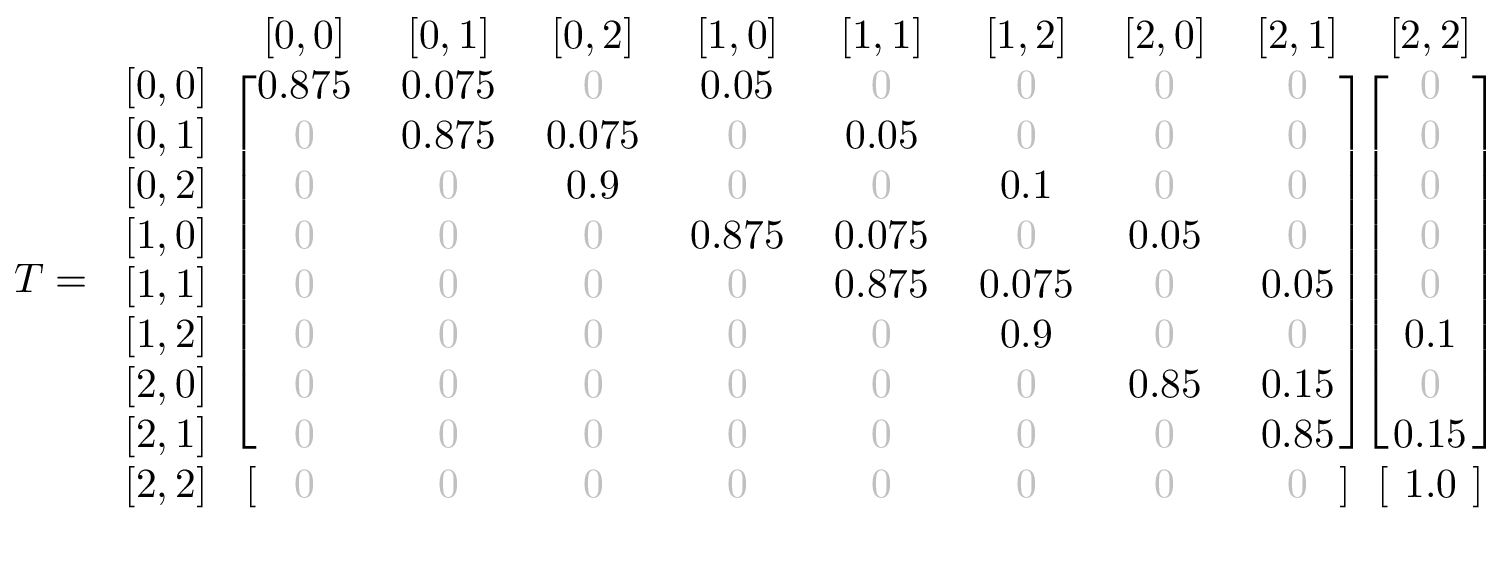
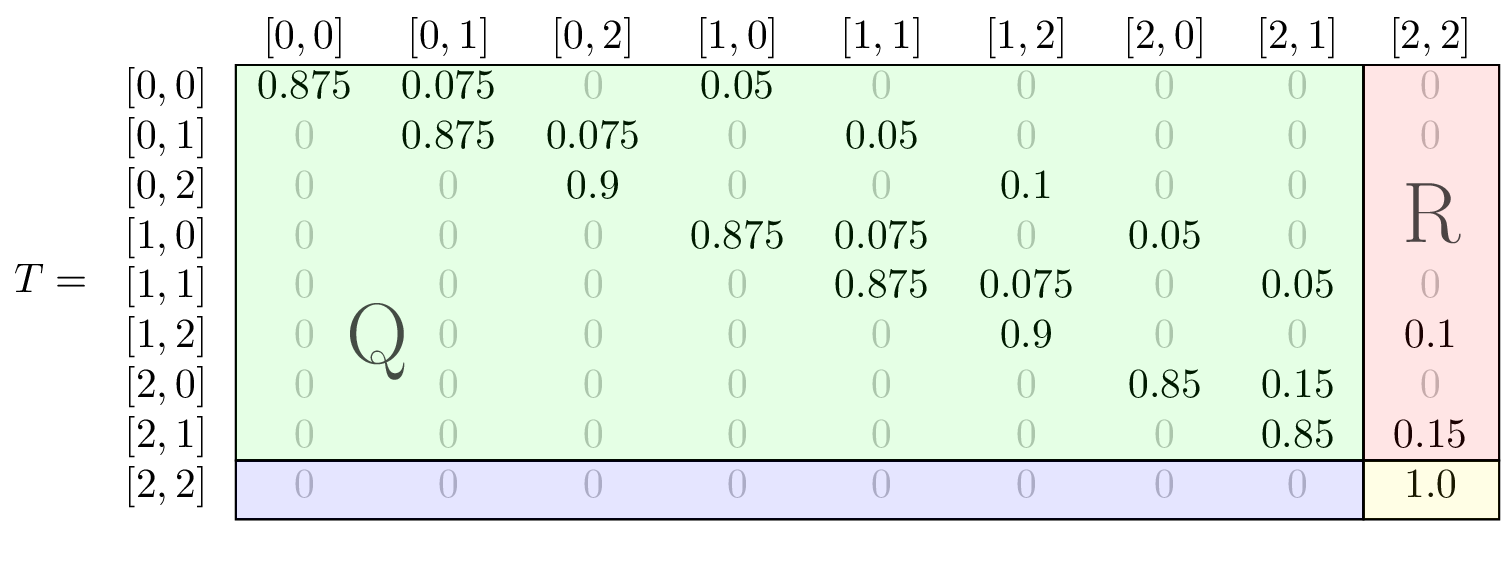
final updates to commuter article

diff --git a/_drafts/2017-05-19-speeding_commuters.md b/_drafts/2017-05-19-speeding_commuters.md
@@ -1,167 +1,170 @@
 ---
 layout:     post
-title:      "Tickets"
+title:      "Speeding Commuters"
 date:       2017-05-19 10:00:00
 author:     Andrew
 header-img: img/posts/speeding_commuters/traffic_bg.jpg
-header-credit: https://unsplash.com/@glebson
+header-credit: unsplash.com/@drh02
 tags:       programming riddler probability
 ---
 
-This week's [riddler](http://fivethirtyeight.com/features/the-battle-for-riddler-nation-round-2/) was a solid one, not too difficult, but still a challenge!
+This week's [riddler express](http://fivethirtyeight.com/features/the-battle-for-riddler-nation-round-2/) was a great level of difficulty, and I thought it was worthy of a write-up.  Hope you enjoy!
 
 > From Jerry Meyers, a careening commute problem:  
 > &nbsp;  
-> Our co-workers carpool to work each day. A driver is selected randomly for the drive to work and again randomly for the drive home. Each of the drivers has a lead foot, and each has a chance of being ticketed for speeding. Driver A has a 10 percent chance of getting a ticket each time he drives, Driver B a 15 percent chance, Driver C a 20 percent chance, and Driver D a 25 percent chance. The state will immediately revoke the license of a driver after his or her third ticket, and a driver will stop driving in the carpool once his license is revoked. Since there is only one police officer on the carpool rout, a maximum of one ticket will be issued per morning and a max of one per evening.    
+> Our co-workers carpool to work each day. A driver is selected randomly for the drive to work and again randomly for the drive home. Each of the drivers has a lead foot, and each has a chance of being ticketed for speeding. Driver A has a 10 percent chance of getting a ticket each time he drives, Driver B a 15 percent chance, Driver C a 20 percent chance, and Driver D a 25 percent chance. The state will immediately revoke the license of a driver after his or her third ticket, and a driver will stop driving in the carpool once his license is revoked. Since there is only one police officer on the carpool route, a maximum of one ticket will be issued per morning and a max of one per evening.    
 > &nbsp;  
 > Assuming that all four drivers start with no tickets, how many days can we expect the carpool to last until all the drivers have lost their licenses?
 
-# Observations
+# What do we know?
 First, let's make some observations about the problem.  At the beginning of each trip, each driver will have some amount of tickets.  I'm going to refer to these amounts as a **state**.  For example, if Drivers A & B each had 1 ticket, I'll write that state as `[1, 1, 0, 0]`. The intial state is `[0, 0, 0, 0]`.
 
 #### 1. There are a limited number of states
 Each driver starts with 0 tickets and stops receiving them after their 3rd.  Because there is a cap on the amount of tickets, and a fixed number of drivers, there is a finite number of ways that tickets can be distributed amongst our drivers.
 
-The actual number of states is the number of ways that 0, 1, 2, or 3 can be arranged, including repeats, across the 4 drivers.  With 4 possible ticket amounts over 4 drivers, this will result in $$4^4$$ or 256 unique states.
+The actual number of states is the number of ways that 0, 1, 2, or 3 can be arranged, with repetition, across the 4 drivers.  With 4 possible ticket amounts over 4 drivers, this will result in $$4^4$$ or 256 unique states.
 
-#### 2. The probability for a ticket to be issued depends only on the state at that time.
-If Driver A and Driver B each have 1 ticket, the probability that Driver C will receive a ticket is the same no matter the order that A and B received their tickets.  The only factors that influence each driver's probability of receiving a ticket are:
-* the number of drivers remaining (more drivers means it's less likely that any particular driver will be selected)
+#### 2. The probability for a driver to be ticketed depends only on the state at that time
+If Driver A and Driver B each have 1 ticket, the probability that Driver C will receive a ticket is the same no matter which order A and B received their tickets.  The only factors that influence each driver's probability of receiving a ticket are:
+* the number of eligible drivers (more drivers means it's less likely that any particular driver will need to drive)
 * their individual ticket probability
 
 
-#### 3. The state where all drivers have received the maximum number of tickets can be reached from any other state
+#### 3. The end state can be reached from any other state
 The end state is the one where all drivers have received their maximum number of tickets, `[3, 3, 3, 3]`.
 
-If I selected a distribution of tickets at random, e.g. `[0, 1, 2, 0]`, it's possible to reach the end state by issuing tickets.  No matter which state we pick, we can always make our way to the end state.  This is probably the most abstract of all of these observations, but it's important to the solution, so stick around!
+If I selected any possible distribution of tickets, it's possible to reach the end state by issuing more tickets.  No matter which state we pick, we can always make our way to the end state in a finite number of steps.  This is probably the most abstract of all of these observations, but it's important to the solution, so stick around!
 
-#### In summary:
-1. the number of states (ticket distributions) is finite.
-2. the probability for a ticket to be issued depends only on the state at that time.
-3. there is an end state that can be reached from any other state.
+# Why do those matter?
 
-# Markov Chains
+These observations are important because they provide some restrictions on how our scenario works.  These restrictions mean that a [Markov chain](https://en.wikipedia.org/wiki/Markov_chain) might be a good method to solve this problem.  A *Markov process* is a process with some randomness that doesn't depend on previous state, i.e. it is "memoryless".  A *Markov chain* is a way to represent one of these processes, given it has a finite number of states.
 
-These observations lead me to think that describing this scenario as a [Markov chains](https://en.wikipedia.org/wiki/Markov_chain) might be a good method to solve this problem.  A *Markov process* is a process with some randomness that doesn't depend on previous state, i.e. it is "memoryless".  A *Markov chain* is a way to represent one of these processes, given it has a finite number of states.
+A common example of a Markov chain is the board game [Snakes & Ladders](https://en.wikipedia.org/wiki/Snakes_and_Ladders#Gameplay) because:  
+1. rolling dice to move around the board has randomness
+2. there are a limited number of spaces on the board
+3. the probability to move to a new space don't depend on how you arrived at your current space.
 
-As an example, let's pretend tomorrow's weather depends only on today's weather, and there are only two types of weather, **rainy** or **sunny**.  The weather follows these rules:
+In general, Markov chains are good at modeling board games involving dice.  Analyses exist for at least Risk[^risk], Monopoly[^monopoly], and Snakes & Ladders[^snl][^snl2].
+
+In our riddle, observation **2** provides the "memoryless" criteria and observation **1** shows that there is a finite number of states.  It's looking good that we could use Markov chains to solve our riddle.
+
+#### example Markov chain
+Let's pretend tomorrow's weather depends *only* on today's weather, and there are only two types of weather: **rainy** or **sunny**[^weather].  The weather follows these patterns:
 * If it's sunny today, tommorow's weather is: 
-  * 90% likely sunny.
-  * 10% likely rainy.
+  * 90% likely to remain sunny.
+  * 10% likely to turn rainy.
 * If it's rainy today, tommorow's weather is: 
-  * 50% likely sunny.
-  * 50% likely rainy.
+  * 50% likely to turn sunny.
+  * 50% likely to remain rainy.
 
-This can be visualized like this:
-![weather_markov]({{ site.baseurl }}/img/posts/speeding_commuters/Markov_Chain_weather_model_matrix_as_a_graph.png)
+The Markov chain for this scenario looks like this:
+![weather_markov]({{ site.baseurl }}/img/posts/speeding_commuters/weather_chain.png)
 
-and it can also be written as a [transition matrix](https://en.wikipedia.org/wiki/Stochastic_matrix).  In this matrix, each number represents the probability that, if the chain is currently in the state of the row, it will transition to the state in the column.  The weather model as a transition matrix is:
+Markov chains can also be written as [transition matrices](https://en.wikipedia.org/wiki/Stochastic_matrix).  In a transition matrix, each number represents the probability that the process would transition from that row's state to that column's state.  The weather model as a transition matrix is:
+
+![weather_markov_mat]({{ site.baseurl }}/img/posts/speeding_commuters/prob_matrix_weather.png)
+
+I've highlighted one transition in the chain and its corresponding entry in the matrix as well to illustrate how the transition matrix is set up.
+
+# Start Your Engines
+
+You might be wondering how we're going to relate this foray into Markov chains back to our riddle.
+
+We can use Markov chains to our advantage by modeling our scenario as follows.  Take each possible state of ticket distribution, and make that a state in our Markov chain.  Each transition in the chain would represent a trip.  This means that by calculating the probabilities that tickets will be issued, we could make a transition matrix that represents the drivers taking trips until they're all suspended.
+
+## Feeling lucky?
+
+Now we need to start calculating probabilities.  In particular, we're interested in the probability that a driver gets a ticket, given an initial state.
+
+We know that for each trip, there are $$x$$ available drivers, where $$x$$ is the number of drivers that do not have 3 tickets.  This means each eligible driver has a $$\frac{1}{x}$$ chance of being selected to drive that trip.  Additionally, we know that each driver has a probability $$p$$ that they will receive a ticket *if they drive*.  This means that for each trip, *before the driver is selected*, the probability that an individual driver will be ticketed is $$\frac{1}{x} \times p$$. For example, assume the state is `[1, 1, 2, 0]`.  All 4 drivers are available, so $$x$$=4.  Driver C's $$p$$ is 0.20.  This makes Driver C's probability of receiving a ticket $$\frac{0.20}{4} = 0.05$$.
+
+If the state was `[3, 1, 2, 0]` instead, Driver C would be more likely to receive a ticket because it's more likely they will be selected at random to drive!  Their ticket probability is now $$\frac{0.20}{3} = 0.067$$.
+
+Transitions are only possible between two states where exactly 1 ticket has been issued to exactly 1 driver, or no tickets have been issued.  The probability that no ticket will been issued can be found by summing all the probabilities that each individual driver will be ticketed and subtracting that from 1.
+
+## Give an example already!
+
+To make things easier to visualize, let's modify the problem slightly.  Instead of our original problem parameters, assume:
+* Only Drivers A and B are present (same probabilities)
+* licenses are suspended after **2** tickets instead of 3.
+
+Given these constraints, the possible states of ticket distribution amongst our two drivers are:
 
 $$
-T =
-\begin{matrix}
- &
- \begin{matrix}
- S & R \\
- \end{matrix}
- \\
- \begin{matrix}
- S \\ R
- \end{matrix}
- &
-  \begin{bmatrix}
- 0.9 & \textbf{0.1} \\
- 0.5 & 0.5 \\
- \end{bmatrix}
-\end{matrix}
-$$
+\begin{array}{ccccccccc}
+intial &  &  &  &  &  &  &  & end \\
+[0, 0] & [0, 1] & [0, 2] & [1, 0] & [1, 1] & [1, 2] & [2, 0] & [2, 1] & [2,2] \\
+\end{array}
+$$ 
 
-The bolded entry in the matrix is highlighting that the probability to transition from **sunny** to **rainy** is 0.1.
+By using our formula from above, we can calculate each possible transition and draw out our Markov chain.
+![ex_chain]({{ site.baseurl }}/img/posts/speeding_commuters/example_chain.png)
 
-## This relates how?
-You might be wondering where this jump to Markov chains came from.  Hopefully I can tie the two things back together now so we can see how a Markov chain applies to our riddle.
+and the corresponding transition matrix:
 
-How we can use Markov chains to our advantage is to set our riddle up as follows.  Take each possible state of ticket distribution, and make that a state in our Markov chain.  Because of observations **1** and **2** above, our process meets the criteria to be a proper Markov chain.  What this means is that if we calculated the probabilities to move between these states, we could make a transition matrix that represents the entire riddle, starting from 0 tickets to the time when all drivers are suspended.
+![prob_mat]({{ site.baseurl }}/img/posts/speeding_commuters/prob_matrix.png)
 
-What we need next is to explain why observation **3** is critical 
+Again, I've highlighted a particular transition in both the chain and the transition matrix, to make it clear how they relate.
 
-## Absorbing State
+The higlighted transition shows that if Driver A & B each have 1 ticket, the probability, *at the start of a trip, before the driver is chosen*, Driver B has a .075 probability of receiving a ticket on that trip.
 
-Our last observation was important because it allows us to use an even more specific Markov chain called an [Absorbing Markov chain](https://en.wikipedia.org/wiki/Absorbing_Markov_chain).  A chain is abosorbing if:
+We can double check that our translation matrix is plausible by confirming the following assumptions:
+* there are no possible transitions that reduce any driver's number of tickets
+* there are no possible transitions that issue 2 tickets in 1 trip
+* the end state can only be transitioned to from `[1, 2]` and `[2, 1]`
+* rows sum to 1
+
+## Now what?
+
+Well, now we have a nice matrix that represents how likely it is that tickets might be issued to the drivers, but how do we turn this into an expected number of days?
+
+Now is when observation **3** will help out.
+
+#### Absorbing State
+
+Observation **3**  allows us to use an even more specific Markov chain called an [Absorbing Markov chain](https://en.wikipedia.org/wiki/Absorbing_Markov_chain).  A chain is abosorbing if:
 * it has an "absorbing" state, which is one that cannot be left once it's entered.  Our absorbing state is the end state, where each driver has the maximum number of tickets.
 * that absorbing state can be reached from any other state in a finite number of steps.
 
-The advantage of having an absorbing state, is that the transition matrix can be put into the following form (simplified because we only have 1 absorbing state): 
+The advantage of having an absorbing state, is that the transition matrix can be put into the following form: 
 
 $$T =
 \left(
 \begin{array}{cc}
  Q & R\\
- [0 \dots 0] & 1
+ 0 & I
 \end{array}
 \right)$$    
 
-* $$R$$ is an array of probabilities of entering the absorbing state from any of the other states
-* $$Q$$ is the transition matrix between the non-absorbing states.
-* $$[0 \dots 0]$$ just shows that the bottom row is all 0 except the last column
+$$Q$$ is the transition matrix between the non-absorbing states.    
+$$R$$ is an array of probabilities of entering the absorbing state from any of the other states.
 
-Observation **3** is critical because absorbing Markov chains have special properties that **allow for direct calculation of the expected number of steps to reach an absorbing state, starting from any other state**.  Because our absorbing state is that all drivers are suspended, and we can start with all drivers having 0 tickets, this is exactly what we're trying to calculate!
-
-The fundamental matrix $$N$$ represents the expected number of times the chain is in the column state, given that the chain started in the row state.
-
-$$N = (I - Q)^{-1}$$
-
-$$I$$ is an [identity matrix](https://en.wikipedia.org/wiki/Identity_matrix) of the same size as $$Q$$
-
-## Feeling lucky?
-
-The next important part of our solution is calculating the probability that a driver receives a ticket.
-
-We know that for each trip, there are $$x$$ available drivers, where $$x$$ is the number of drivers that do not have 3 tickets.  This means each driver has a $$\frac{1}{x}$$ chance of being selected to drive that trip.  Additionally, we know that each driver has a probability $$p$$ that they will receive a ticket *if they drive*.  This means that for each trip, *before the driver is selected*, the probability that an individual driver will be ticketed is $$\frac{1}{x} \times p$$. For example, assume the state is `[1, 1, 2, 0]`.  All 4 drivers are available, so $$x$$=4.  Driver C's $$p$$ is 0.20.  This makes Driver C's probability of receiving a ticket $$\frac{0.20}{4} = 0.05$$.
-
-If the state was `[3, 1, 2, 0]` instead, Driver C would be more likely to receive a ticket because it's more likely they will be selected at random to drive!  Their ticket probability is now $$\frac{0.20}{3} = 0.067$$.
-
-Because tickets cannot be taken away, and only 1 can be issued per trip, transitions are only possible between two states where exactly 1 ticket has been issued to exactly 1 driver, or no tickets have been issued.  The probability that no ticket will been issued can be found by adding all the probabilities that each individual driver will receive a ticket and subtracting that from 1.
-
-# Give an example already!
-
-Ok, that's enough theory for now.  To make things easier to view, let's modify the problem slightly.  Instead of our original problem parameters, assume there are only Drivers A and B (same probabilities), and that licenses are suspended after **2** tickets instead of 3.  This will reduce the number of possible states.
-
-The possible states of ticket distribution amongst our two drivers are:
-$$
-\begin{array}{ccccccccc}
-[0, 0] & [0, 1] & [0, 2] & [1, 0] & [1, 1] & [1, 2] & [2, 0] & [2, 1] & [2,2] \\
-\end{array}
-$$ 
-
-
-All of the probabilities for transitioning are now calculated, and are show on the full Markov chain:
-![ex_chain]({{ site.baseurl }}/img/posts/speeding_commuters/example_chain.png)
-
-The resulting translation matrix for our scenario is:
-
-![prob_mat]({{ site.baseurl }}/img/posts/speeding_commuters/prob_matrix.png)
-
-We can double check that our translation matrix is plausible by confirming the following assumptions:
-* there are no possible transitions that reduce the number of tickets
-* there are no possible transitions that issue 2 tickers in 1 trip
-* the end state can only be transitioned to from `[1, 2]` and `[2, 1]`
-* rows sum to 1
-
-Further breaking the translation matrix down into the fundamental matrix, we get the following submatrices
 ![prob_mat_canon]({{ site.baseurl }}/img/posts/speeding_commuters/prob_matrix_canonical.png)
+This is crucial because absorbing Markov chains have properties that **allow for direct calculation of the expected number of steps to reach an absorbing state, starting from any other state**.  Because our absorbing state is that all drivers are suspended, we can directly calculate the expected number of trips from all drivers having 0 tickets, to all drivers being suspended!
 
-![q_mat]({{ site.baseurl }}/img/posts/speeding_commuters/q_matrix.png)
+# The Home Stretch
+
+So how does all of this actually get us a number?  We just need to run through a few more calculations to arrive at the answer.
+
+The [fundamental matrix](https://en.wikipedia.org/wiki/Absorbing_Markov_chain#Fundamental_matrix) $$N$$ represents the expected number of times the chain is in the column state, given that the chain started in the row state.
 
 ![n_mat]({{ site.baseurl }}/img/posts/speeding_commuters/n_matrix.png)
 
+$$I$$ is an [identity matrix](https://en.wikipedia.org/wiki/Identity_matrix) of the same size as $$Q$$.
+
+From that, we can get $$E$$, which is the [expected number of steps](https://en.wikipedia.org/wiki/Absorbing_Markov_chain#Expected_number_of_steps) to get to an absorbing state, starting from any other state.
+
 ![e_mat]({{ site.baseurl }}/img/posts/speeding_commuters/e_matrix.png)
 
-This tells us that we should expect 33.33 trips, or ~16.5 days for both of our drivers to be suspended.  If both of our drivers started with 1 ticket, it would take exactly half as long, or a little over 8 days.
+# The Checkered Flag
+In this case, $$E$$ tells us, for each possible starting state, how many trips we should expect before we reach the absorbing state.  The important one for the riddle is `[0, 0]`.  For our reduced example, we should expect 33.33 trips, or ~16.5 days for both of our drivers to be suspended.  If both of our drivers started with 1 ticket, it would take exactly half as long, or a little over 8 days.
 
-Now all that's left to do it perform this same analysis on the original problem parameters of 3 tickets and all the drivers.  Running through the numbers shows that we should expect all drivers to be suspended at **38.5 days**.
+### The Original Riddle
+Now all that's left to do it perform this same analysis on the original problem parameters of 3 tickets to suspension and all the drivers.  With our 256 states, showing any visuals is quite difficult.  Running through the numbers shows that we should expect all drivers to be suspended at **38.5 days**.
 
-below is the python code I used to perform the number-crunching.
+For processes that run in discrete steps and can be represented by a fixed number of states, Markov chains are a great way to learn about how the system evolves and to calculate useful properties about it as well.  I hope you learned a bit, and be sure to ask me any questions if you have them!
+
+The python code I used to perform the number-crunching is below.
 
 
 ```python
@@ -169,25 +172,20 @@ import numpy as np
 import itertools
 from sympy import init_printing
 from sympy.physics.vector import vlatex
+from collections import Counter
 init_printing(latex_printer=vlatex)
 ```
 
 
 ```python
-def transition_probability(initial, final, ticket_probs, ticket_limit=3):
-    initial = np.array(initial)
-    final = np.array(final)
-    num_drivers = len(ticket_probs)
+def transition_probability(initial, final, ticket_probs, max_tickets):
+    ticket_diff = [f-i for i,f in zip(initial, final)]
+    diff_counts = Counter(ticket_diff)
     
-    ticket_diff = np.subtract(final, initial)
-    # probabilities are only calculated if exactly 1 driver's ticket count
-    # has increased by exactly 1.  Other state transitions are impossible.
-    # probabilities to remain in a state are calculated later.
-    if  len(np.argwhere(ticket_diff == 1)) == 1 \
-    and len(np.argwhere(ticket_diff == 0)) == num_drivers - 1:
-        avail_drivers = len(np.argwhere(initial < ticket_limit))
-        ticketed_driver_indx = np.argwhere(ticket_diff == 1)[0][0]
-        return (1/avail_drivers) * ticket_probs[ticketed_driver_indx]
+    if diff_counts[1] == 1 and diff_counts.keys() == {0,1}:
+        avail_drivers = sum(driver < max_tickets for driver in initial)
+        ticketed_driver_indx = ticket_diff.index(1)
+        return ticket_probs[ticketed_driver_indx] / avail_drivers
     else:
         return 0    
 ```
@@ -197,27 +195,28 @@ def transition_probability(initial, final, ticket_probs, ticket_limit=3):
 def expected_days_all_suspended(max_tickets, ticket_probs):
     num_drivers = len(ticket_probs)
     
-    ticket_states = list(itertools.product(range(0, max_tickets+1), repeat=num_drivers))
+    ticket_states = list(itertools.product(range(max_tickets+1),
+                                           repeat=num_drivers))
     num_ticket_states = len(ticket_states)
     
-    probability_matrix = np.zeros((num_ticket_states,num_ticket_states))
+    T = np.zeros((num_ticket_states,num_ticket_states))
 
     for row, start_state in enumerate(ticket_states):
         for col, end_state in enumerate(ticket_states):
-            probability_matrix[row][col] = transition_probability(start_state,
-                                                                  end_state,
-                                                                  ticket_probs,
-                                                                  max_tickets)
+            T[row][col] = transition_probability(start_state,
+                                                 end_state,
+                                                 ticket_probs,
+                                                 max_tickets)
 
-    for row,col in zip(*np.diag_indices_from(probability_matrix)):
-        probability_matrix[row][col] = 1 - np.sum(probability_matrix[row])
+    for row,col in zip(*np.diag_indices_from(T)):
+        T[row][col] = 1 - np.sum(T[row])
         
-    q = np.mat(probability_matrix[:-1,:-1])
-    i = np.identity(num_ticket_states - 1)
+    q = np.mat(T[:-1,:-1])
+    i = np.identity(q.shape[0])
     n = np.linalg.inv(i - q)
-    
-    expected_trips_to_states = np.array(n * np.ones((num_ticket_states-1,1)))
-    return expected_trips_to_states[0][0] / 2 # 2 trips per day
+        
+    expected_trips = np.array(n * np.ones((n.shape[1],1)))
+    return expected_trips[0][0] / 2 # 2 trips per day
 ```
 
 
@@ -244,6 +243,8 @@ $$38.5$$
 
 
 
-http://www4.stat.ncsu.edu/~jaosborn/research/RISK.pdf    
-http://www.datagenetics.com/blog/november12011/    
-http://www.math.uiuc.edu/~bishop/monopoly.pdf
+[^weather]: [https://en.wikipedia.org/wiki/Examples_of_Markov_chains#A_simple_weather_model](https://en.wikipedia.org/wiki/Examples_of_Markov_chains#A_simple_weather_model)
+[^risk]:[http://www4.stat.ncsu.edu/~jaosborn/research/RISK.pdf](http://www4.stat.ncsu.edu/~jaosborn/research/RISK.pdf)
+[^snl]:[http://www.datagenetics.com/blog/november12011/](http://www.datagenetics.com/blog/november12011/)
+[^monopoly]:[http://www.math.uiuc.edu/~bishop/monopoly.pdf](http://www.math.uiuc.edu/~bishop/monopoly.pdf)
+[^snl2]:[https://en.wikipedia.org/wiki/Snakes_and_Ladders#Mathematics_of_the_game](https://en.wikipedia.org/wiki/Snakes_and_Ladders#Mathematics_of_the_game)
